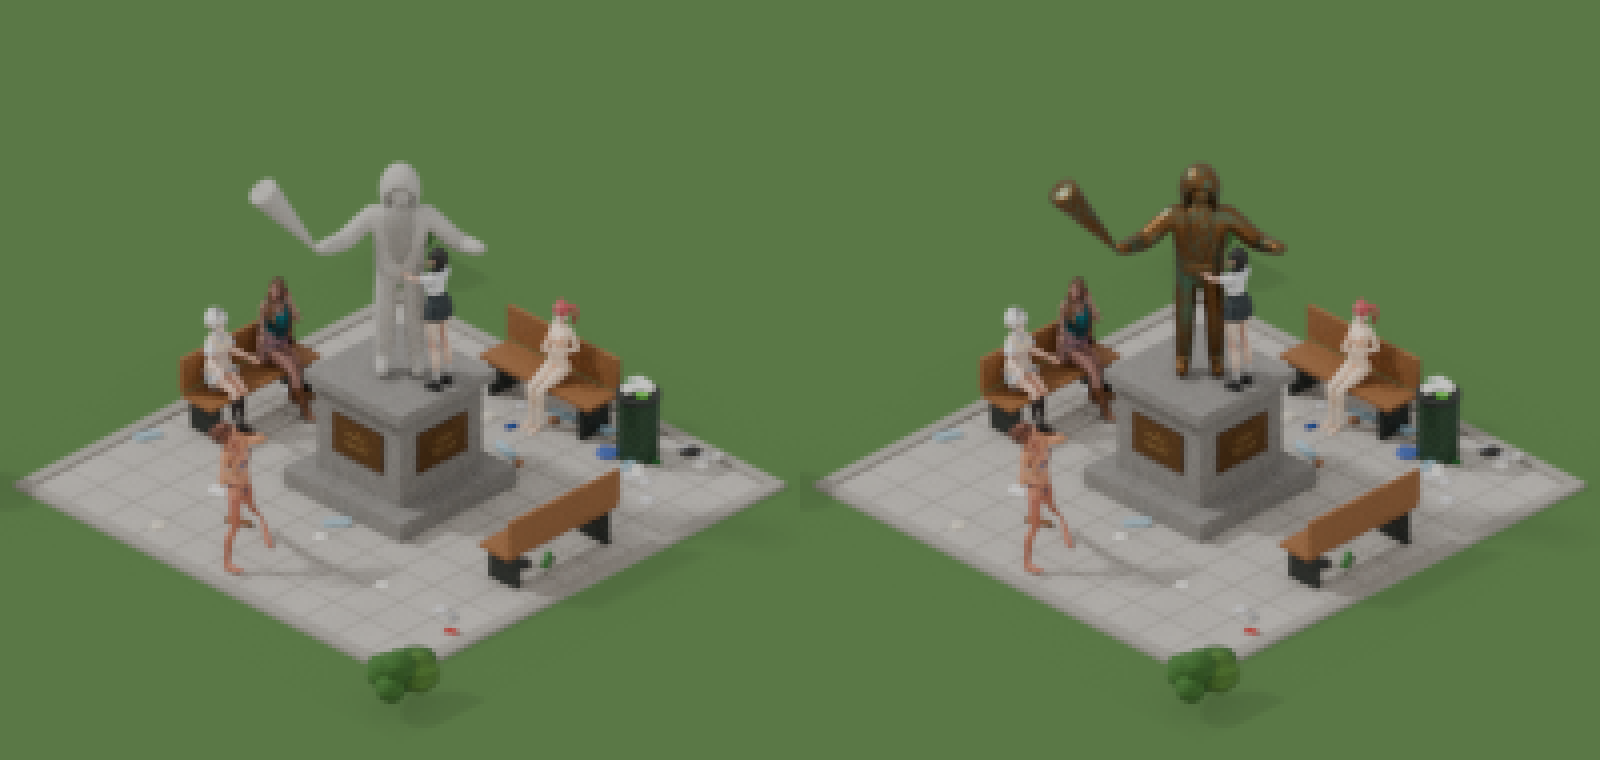
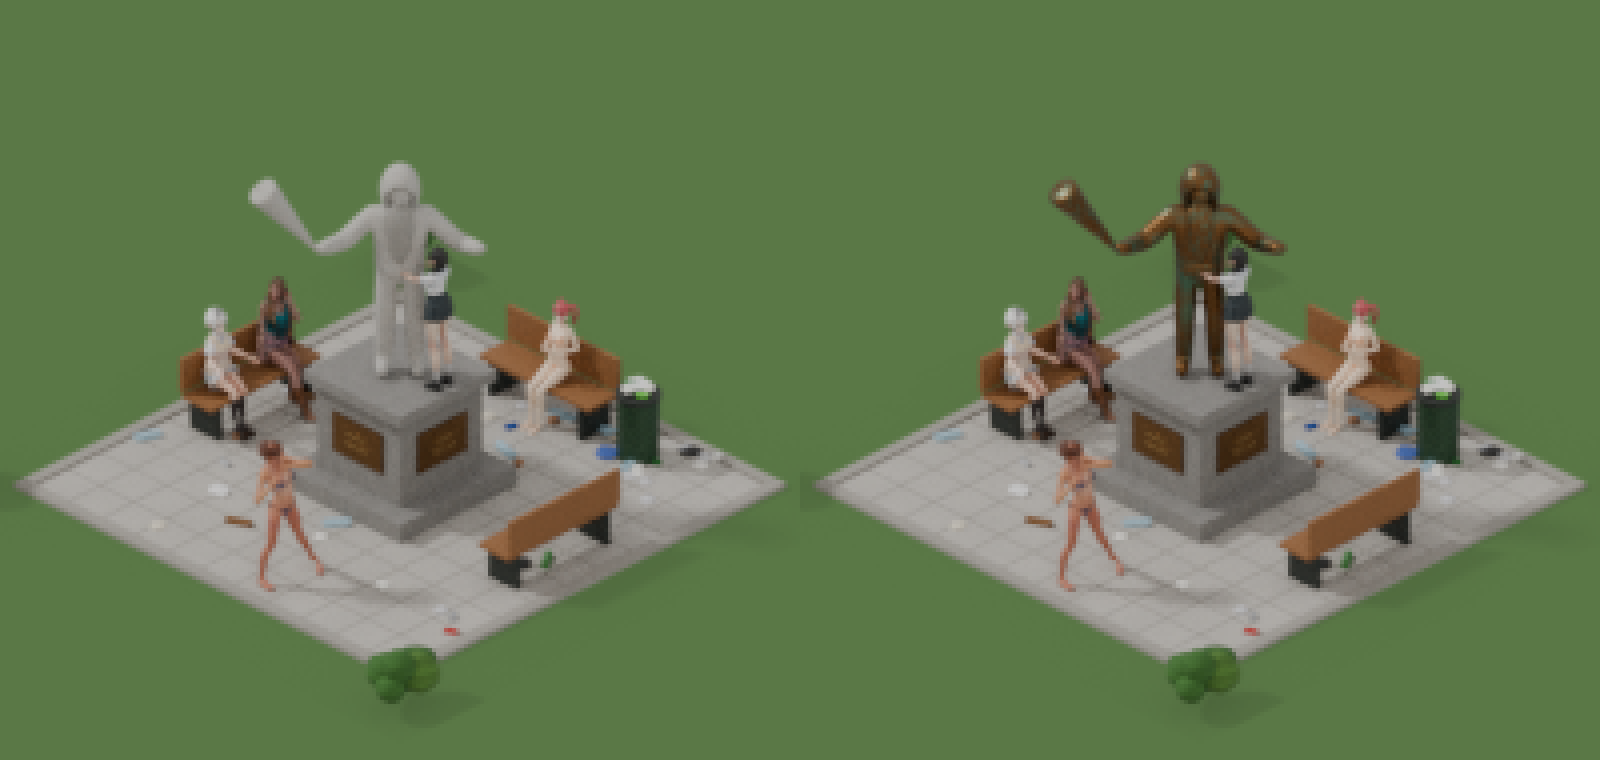
Socha s postavami: divka v bikinach prirozeneji a kousek k jihovychodu
Hlava narovnana dopredu (v modelu byla zaklonena k nebi), kratky klidny
krok, zadni chodidlo celou plochou, jde sikmo k divakovi. Posunuta kousek
k jihovychodu, aby nemela hlavu u nohou divky na lavicce. Ostatni divky
beze zmeny. postavy.py: otoc_cast() na hlavu staticke postavy.

Claude-Session: https://claude.ai/code/session_01P6zYdmMEQjTTZJyV6Qb8Ch

diff --git a/socha/render_socha.py b/socha/render_socha.py
@@ -375,6 +375,10 @@ if os.environ.get("POSTAVY", "") == "1":
         v = 0.05                                      # kousek dozadu k operadlu
         do_sceny(meshe, kotva, x + u * -s + v * -c, y + u * c + v * -s, 0.47, uhel)
 
+    # divka v bikinach: krok (stehno vpred, vzad, koleno zadni nohy), kolik z rozkroku srovnat (vic = chodidlo na hranu),
+    # posun k jihovychodu a smer chuze ve stupnich (45 = k divakovi, 90 = k jihovychodu)
+    BK_VPRED, BK_VZAD, BK_KOLENO, BK_K = (float(os.environ.get(n, d)) for n, d in (("BK_VPRED", "-12"), ("BK_VZAD", "5"), ("BK_KOLENO", "6"), ("BK_K", "0.5")))
+    BK_Y, BK_SMER = float(os.environ.get("BK_Y", "0.55")), float(os.environ.get("BK_SMER", "70"))
     LAV_SZ = (C, C - R_LAV, math.pi / 2)              # severozapadni (na obrazku vlevo nahore): dve divky
     LAV_SV = (C - R_LAV, C, 0.0)                      # severovychodni (vpravo nahore): jedna, jihovychodni prazdna
 
@@ -409,15 +413,20 @@ if os.environ.get("POSTAVY", "") == "1":
     print("anime: stehna %d st, chodidla mimo zem o %.3f m" % (st, chyba))
     na_lavicku(an, kotva, LAV_SV, 0.12)
 
-    # girl_bikini: krok tam, kde by byla ctvrta lavicka (jihozapadni), jde k jihovychodu; nohy napred k sobe pod kycle
+    # girl_bikini: krok tam, kde by byla ctvrta lavicka, a kousek k jihovychodu (hrac: "at nema u hlavy nohu te holky
+    # na lavicce"). Model stoji jako modelka (nohy od sebe, hlava zaklonena k nebi), proto: nohy k sobe pod kycle,
+    # kratky klidny krok, hlava o 35 st dopredu a 15 st zpet nad ramena. Jde k vychodu-jihovychodu, ze strany je
+    # krok videt (hrac: "zda se mi neprirozena, klidne ji nejak pootoc").
     bk = PO.nacti("girl_bikini", 1.66)
     (xr, xfr, zfr), (xl, xfl, zfl) = PO.stredy_nohou(bk, 1.66)
     odklon_r = math.atan2(xfr - xr, 0.42 * 1.66 - zfr); odklon_l = math.atan2(xfl - xl, 0.42 * 1.66 - zfl)
     PO.ohni_nohy(bk, 1.66, 0.50, 0.285,
-                 [(xr, Matrix.Rotation(math.radians(-22), 3, 'X') @ Matrix.Rotation(-odklon_r, 3, 'Y'), ((1, 0, 0), math.radians(8))),
-                  (xl, Matrix.Rotation(math.radians(14), 3, 'X') @ Matrix.Rotation(-odklon_l, 3, 'Y'), ((1, 0, 0), math.radians(20)))])
+                 [(xr, Matrix.Rotation(math.radians(BK_VPRED), 3, 'X') @ Matrix.Rotation(-BK_K * odklon_r, 3, 'Y'), ((1, 0, 0), math.radians(4))),
+                  (xl, Matrix.Rotation(math.radians(BK_VZAD), 3, 'X') @ Matrix.Rotation(-BK_K * odklon_l, 3, 'Y'), ((1, 0, 0), math.radians(BK_KOLENO)))])
+    PO.otoc_cast(bk, 1.66, 0.855, (-0.06 * 1.66, 0.02 * 1.66, 0.85 * 1.66),
+                 Matrix.Rotation(math.radians(15), 3, 'Y') @ Matrix.Rotation(math.radians(35), 3, 'X'))
     lo, hi, _ = PO.rozmery_siti(bk)
-    do_sceny(bk, Vector((0, 0, lo[2])), C + R_LAV, C - 0.1, Z_D, math.pi / 2)
+    do_sceny(bk, Vector((0, 0, lo[2])), C + R_LAV, C + BK_Y, Z_D, math.radians(BK_SMER))
 
     # college_girl: na podstavci u Karla zleva zpredu, celem k nemu, objima ho (ruce dopredu, predlokti kolem nej)
     def divka_a(o):

diff --git a/postavy/postavy.py b/postavy/postavy.py
@@ -221,3 +221,15 @@ def bod_sedu(meshe, vyska, y_kycel):
     lo, hi, vse = rozmery_siti(meshe)
     okolo = vse[(np.abs(vse[:, 1] - y_kycel) < 0.1 * vyska) & (vse[:, 2] > lo[2] + 0.15 * vyska) & (np.abs(vse[:, 0]) < 0.1 * vyska)]
     return Vector((0.0, float(y_kycel), float(okolo[:, 2].min()))), float(okolo[:, 2].min() - lo[2])
+
+
+def otoc_cast(meshe, vyska, z_od, pivot, otoceni, sirka=0.012):
+    """Otoci horni cast staticke postavy (vse nad vyskou z_od, podil vysky; hladce v pasu +-sirka) kolem bodu
+    pivot (m) o otoceni (osa, uhel) nebo matici 3x3. Na hlavu: z_od u krku, ruce musi byt niz."""
+    R = _rot(otoceni)
+    p = np.array(pivot, dtype=float)
+    for o in meshe:
+        v = _vrcholy(o)
+        w = 1.0 - _pod(v[:, 2], z_od * vyska, sirka * vyska)
+        nove = (v - p) @ R.T + p
+        _zapis(o, v + w[:, None] * (nove - v))

diff --git a/socha/README.md b/socha/README.md
@@ -34,7 +34,10 @@ dvě na jednu lavičku, jednu na jednu a na třetí nezbyde“*, *„měřítko 
 
 - **Na podstavci:** dívka ve školní uniformě (College Girl) stojí Karlovi po levici, čelem k němu, objímá ho
   a hlavu má zvednutou k němu. Pusa vidět není.
-- **Kráčí:** dívka v bikinách jde přes náměstíčko vlevo vpředu, kde by byla čtvrtá lavička, k jihovýchodu.
+- **Kráčí:** dívka v bikinách jde přes náměstíčko vlevo vpředu, kde by byla čtvrtá lavička, posunutá kousek
+  k jihovýchodu, aby neměla hlavu u nohou dívky na lavičce. Model stojí jako modelka (nohy od sebe, hlava zakloněná
+  k nebi), proto jsou jí nohy srovnané pod kyčle do krátkého klidného kroku a hlava narovnaná dopředu. Jde šikmo
+  k divákovi (hráč: *„zdá se mi nepřirozená, klidně ji nějak pootoč“*).
 - **Na lavičkách:** na severozápadní (vlevo nahoře) dvě, bělovlasá anime dívka a dívka v tyrkysovém tílku
   s kabelkou, na severovýchodní (vpravo nahoře) sama zrzavá anime dívka. Jihovýchodní (vpravo dole) zůstala prázdná.
 - **Měřítko k lavičce:** dívky mají 1,58 až 1,68 m a jsou dvakrát zvětšené jako lavičky, sedí zadkem na sedáku
